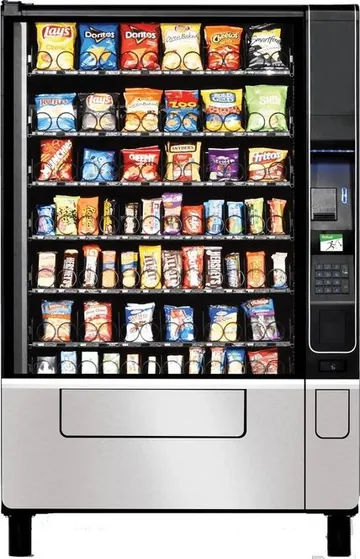
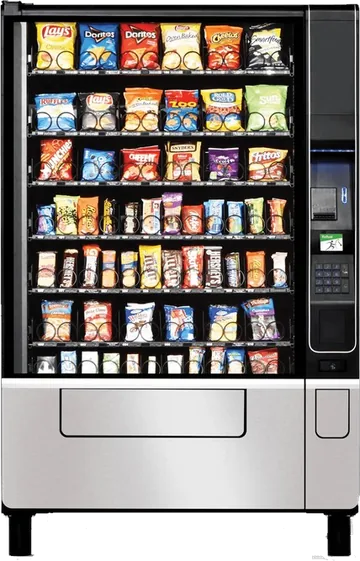
Cut out the Evoke machine background; sharpen the micro-market photo
- evoke-snack: flood-fill white-key from the JpG so it's a transparent
  cutout on the navy equipment card, matching the cooler beside it
- micro-market: regenerate from full-res source with lanczos + unsharp
  at q80 and serve larger variants; visibly crisper on the cards

Lighthouse still 100/100/100/100.

diff --git a/index.html b/index.html
@@ -159,11 +159,11 @@
           </figure>
 
           <figure class="relative min-w-full h-full">
-            <img src="/images/micro-market-640.webp"
+            <img src="/images/micro-market-860.webp"
                  srcset="/images/micro-market-340.webp 340w, /images/micro-market-480.webp 480w, /images/micro-market-640.webp 640w, /images/micro-market-860.webp 860w, /images/micro-market-1100.webp 1100w"
-                 sizes="(min-width:1024px) 500px, calc(100vw - 3rem)"
+                 sizes="(min-width:1024px) 520px, calc(100vw - 2rem)"
                  alt="An MWM micro-market with coolers, fresh food, drinks, and snacks"
-                 width="1280" height="960" loading="lazy" class="h-full w-full object-cover">
+                 width="1100" height="825" loading="lazy" class="h-full w-full object-cover">
             <span class="absolute inset-0 bg-navy/15 mix-blend-multiply" aria-hidden="true"></span>
             <span class="absolute inset-0 bg-gradient-to-t from-ink/30 to-transparent" aria-hidden="true"></span>
           </figure>
@@ -318,8 +318,8 @@
     </div>
     <div class="mt-12 grid sm:grid-cols-2 lg:grid-cols-3 gap-6">
       <figure class="reveal bg-white/[0.06] rounded-md p-4 ring-1 ring-white/10 transition duration-200 ease-out hover:ring-cyan/40 hover:-translate-y-1">
-        <div class="relative rounded-sm overflow-hidden">
-          <img src="/images/evoke-snack-360.webp" srcset="/images/evoke-snack-220.webp 220w, /images/evoke-snack-360.webp 360w, /images/evoke-snack-520.webp 520w" sizes="240px" alt="An MWM snack vending machine stocked with chips and snacks" width="428" height="664" loading="lazy" class="w-full object-contain aspect-[4/5] bg-white p-3">
+        <div class="rounded-sm bg-[radial-gradient(circle_at_50%_38%,rgba(1,174,240,0.16),transparent_68%)]">
+          <img src="/images/evoke-snack-360.webp" srcset="/images/evoke-snack-220.webp 220w, /images/evoke-snack-360.webp 360w, /images/evoke-snack-520.webp 520w" sizes="240px" alt="An MWM snack vending machine stocked with chips and snacks" width="428" height="667" loading="lazy" class="w-full object-contain aspect-[4/5]">
         </div>
         <figcaption class="mt-4">
           <span class="block text-[13px] text-cyan">Vending machine</span>
@@ -339,10 +339,10 @@
       </figure>
       <figure class="reveal bg-white/[0.06] rounded-md p-4 ring-1 ring-white/10 transition duration-200 ease-out hover:ring-cyan/40 hover:-translate-y-1">
         <div class="relative rounded-sm overflow-hidden">
-          <img src="/images/micro-market-640.webp"
+          <img src="/images/micro-market-860.webp"
                srcset="/images/micro-market-340.webp 340w, /images/micro-market-480.webp 480w, /images/micro-market-640.webp 640w, /images/micro-market-860.webp 860w, /images/micro-market-1100.webp 1100w"
-               sizes="(min-width:1024px) 340px, calc(100vw - 3rem)"
-               alt="An MWM micro-market with coolers, fresh food, drinks, and snacks" width="1280" height="960" loading="lazy" class="w-full object-cover aspect-[4/5]">
+               sizes="(min-width:1024px) 380px, calc(100vw - 2rem)"
+               alt="An MWM micro-market with coolers, fresh food, drinks, and snacks" width="1100" height="825" loading="lazy" class="w-full object-cover aspect-[4/5]">
           <span class="absolute inset-0 bg-navy/20 mix-blend-multiply" aria-hidden="true"></span>
           <span class="absolute inset-0 bg-gradient-to-t from-ink/30 to-transparent" aria-hidden="true"></span>
         </div>
